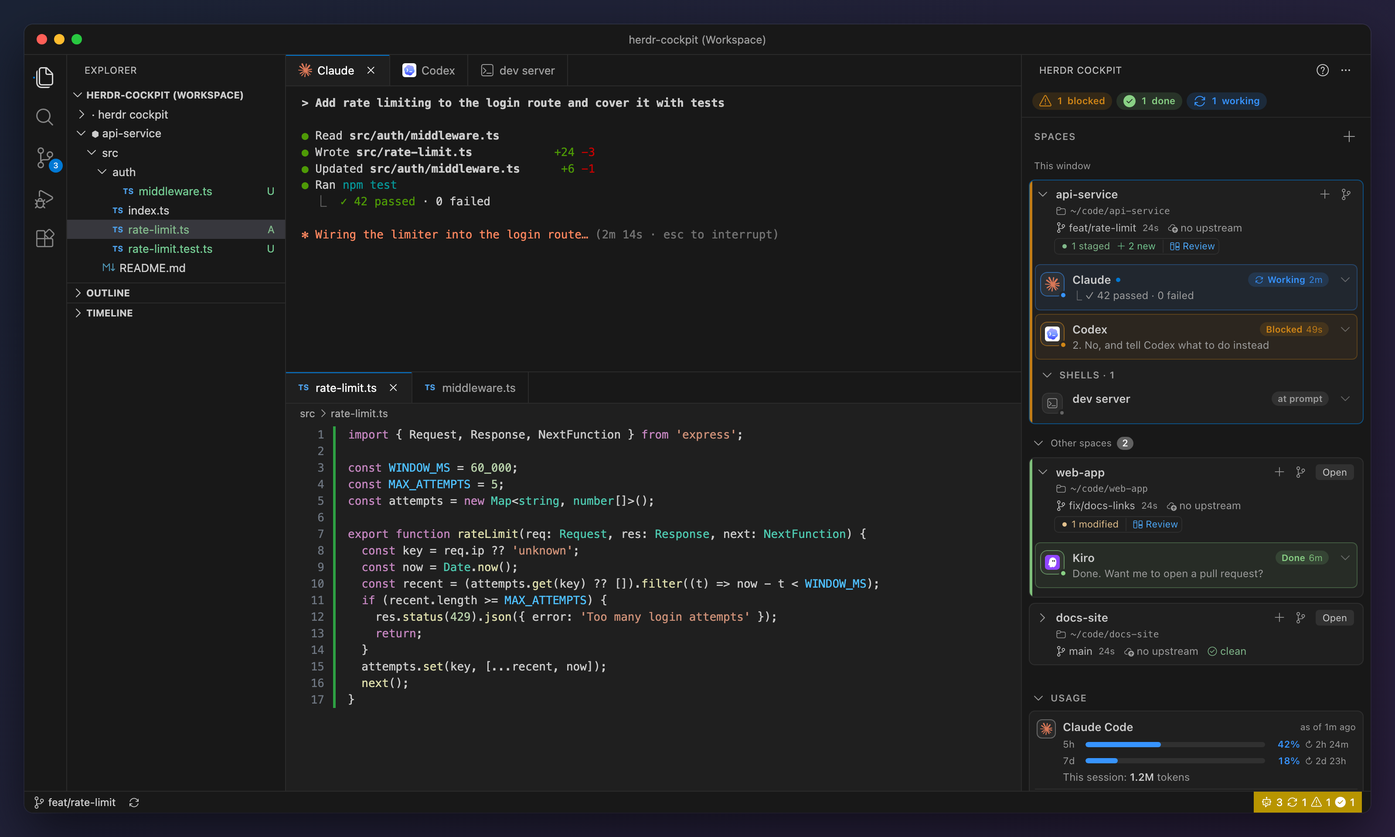
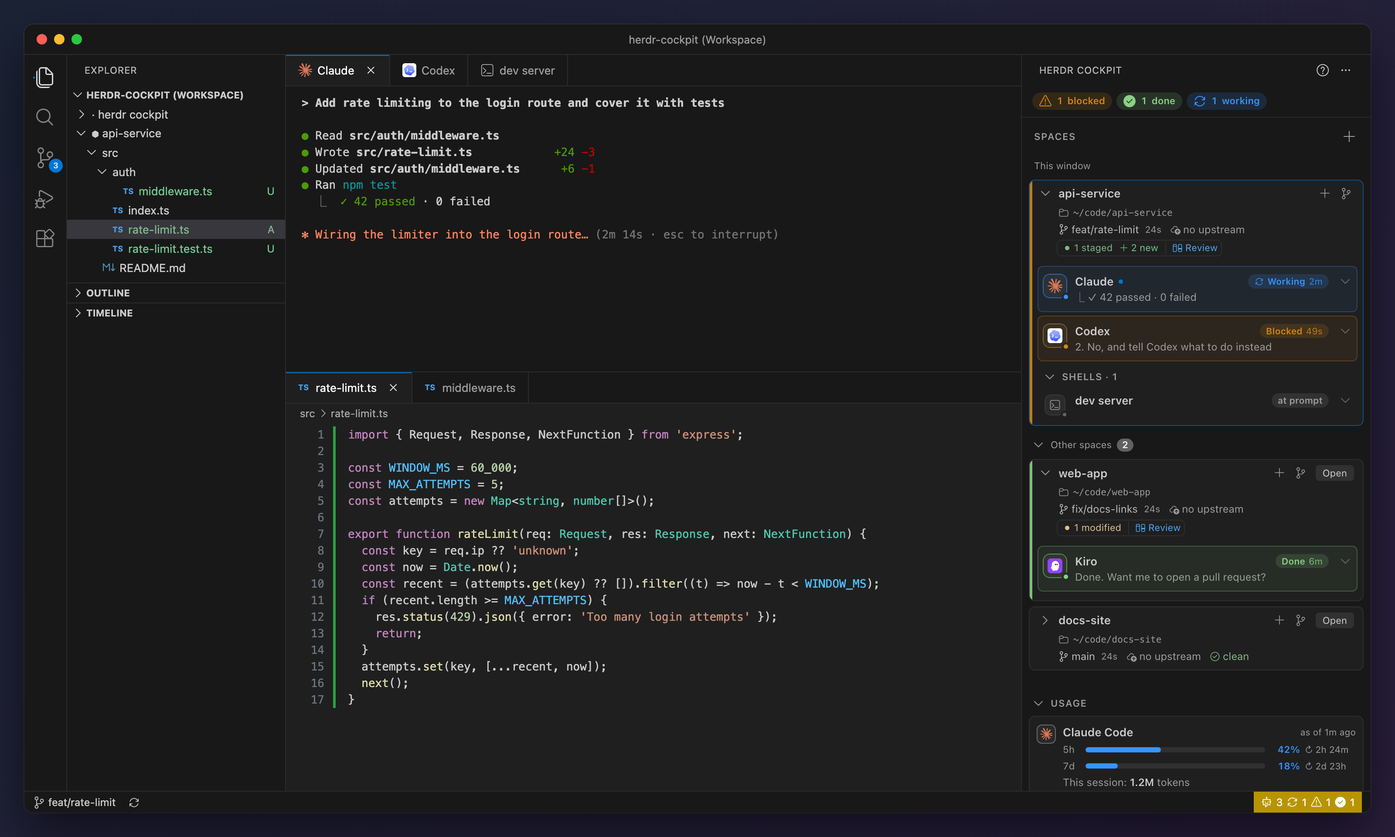
Clearer Today lines in Usage, evenly spaced space cards (0.3.16 to 0.3.18)
The Today line in Usage packed four things into one row with dots between them, which was hard to read. Now
it's one idea per line: "Today: 209.7M tokens, 98% from cache", "$72.67 if billed per token" (it's what the
day would cost without a plan, not a bill) and "+4,536 −141 lines of code".

The space cards' spacing was off in two places:
- The name line had 7px above and 3px below, so its hover highlight hugged the text. Now 6px each way, with
  the highlight following the card's rounded corner.
- The colored status bar on the left of a card with a working, blocked or done agent was drawn over the
  content's left padding, leaving 3px between the bar and everything else (6px on the right). Every card now
  keeps a 3px gutter for the bar, so content sits 6px from it and all cards still line up.

So the cards look even on both sides, and the usage numbers read at a glance.

diff --git a/src/viewState.ts b/src/viewState.ts
@@ -109,8 +109,8 @@ export interface UsageView extends ProviderUsage {
   windows: (UsageWindow & { level: UsageLevel })[];
   /** The folded Usage heading's number: the 5-hour window, else the first one, credits or tokens. */
   summary: { text: string; level: UsageLevel };
-  /** The "Today" line, piece by piece: tokens, the share read from cache, cost at API prices, lines changed. */
-  todayParts?: string[];
+  /** The "Today" lines, one idea each: tokens and the share read from cache, the cost per token, lines changed. */
+  todayLines?: string[];
   /** Codex credits beyond the plan's windows ("12.5 credits left", "unlimited credits"). */
   creditsText?: string;
 }
@@ -232,9 +232,9 @@ export function usageView(u: ProviderUsage): UsageView {
     planName = PLAN_NAMES[u.plan] ?? u.plan.charAt(0).toUpperCase() + u.plan.slice(1);
   }
   const view: UsageView = { ...u, windows, summary, planName };
-  const parts = todayParts(u);
-  if (parts.length) {
-    view.todayParts = parts;
+  const lines = todayLines(u);
+  if (lines.length) {
+    view.todayLines = lines;
   }
   if (u.codexCredits?.unlimited) {
     view.creditsText = 'unlimited credits';
@@ -244,37 +244,41 @@ export function usageView(u: ProviderUsage): UsageView {
   return view;
 }
 
-/** Lines changed: exact up to 9,999 (a day's edits), short above. */
+/** Lines changed: exact with a thousands separator up to 99,999 (a day's edits), short above. */
 function lineCount(n: number): string {
-  if (n < 10_000) {
-    return String(n);
+  if (n < 100_000) {
+    return n.toLocaleString('en-US');
   }
   return shortCount(n);
 }
 
-/** The pieces of a provider's "Today" line, in order; empty when it did nothing today. */
-export function todayParts(u: ProviderUsage): string[] {
+/**
+ * A provider's "Today" lines (since midnight), one idea each so they read at a glance; empty when it did
+ * nothing today: "Today: 203.6M tokens, 98% from cache", "$72.67 if billed per token", "+4,536 −141 lines of code".
+ */
+export function todayLines(u: ProviderUsage): string[] {
   const t = u.today;
   if (!t) {
     return [];
   }
-  const parts: string[] = [];
+  const lines: string[] = [];
   const all = t.tokens + t.cacheRead;
   if (all > 0) {
-    parts.push(`${shortCount(all)} tokens`);
+    let tokens = `Today: ${shortCount(all)} tokens`;
     // Most of an agent's input is re-read from the prompt cache, which costs about a tenth.
     const cached = Math.round((t.cacheRead / all) * 100);
     if (cached > 0) {
-      parts.push(`${cached}% from cache`);
+      tokens += `, ${cached}% from cache`;
     }
+    lines.push(tokens);
   }
   if (t.costUSD && t.costUSD >= 0.005) {
-    parts.push(`$${t.costUSD.toFixed(2)} at API prices`);
+    lines.push(`$${t.costUSD.toFixed(2)} if billed per token`);
   }
   if (t.linesAdded || t.linesRemoved) {
-    parts.push(`+${lineCount(t.linesAdded ?? 0)} −${lineCount(t.linesRemoved ?? 0)} lines`);
+    lines.push(`+${lineCount(t.linesAdded ?? 0)} −${lineCount(t.linesRemoved ?? 0)} lines of code`);
   }
-  return parts;
+  return lines;
 }
 
 /**

diff --git a/src/test/viewTest.ts b/src/test/viewTest.ts
@@ -8,7 +8,7 @@ import * as vm from 'vm';
 import { allPanes, attachOrder, countByStatus, findPane, needingAttention, normalize, repoSpace } from '../model';
 import type { Space } from '../model';
 import { ago, left } from '../format';
-import { buildViewState, folderLine, headline, orderByActivity, paneName, setAgentNames, shortPath, spacesLayout, todayParts, usageView } from '../viewState';
+import { buildViewState, folderLine, headline, orderByActivity, paneName, setAgentNames, shortPath, spacesLayout, todayLines, usageView } from '../viewState';
 import type { PaneActivity } from '../activity';
 import type { PaneProcessInfo, SessionSnapshotResult } from '../herdrTypes';
 
@@ -275,11 +275,11 @@ assert.deepStrictEqual(ordered.map((s) => s.id), ['d', 'c', 'b', 'a', 'e', 'f'])
 console.log('✓ space order: working / blocked first, then most recently active, then Herdr order');
 // The Usage section's Today line and Codex credits
 assert.deepStrictEqual(
-  todayParts({ id: 'claude', name: 'Claude Code', windows: [], today: { tokens: 200_000, cacheRead: 1_800_000, costUSD: 12.4, linesAdded: 1200, linesRemoved: 340 } }),
-  ['2.0M tokens', '90% from cache', '$12.40 at API prices', '+1200 −340 lines'],
+  todayLines({ id: 'claude', name: 'Claude Code', windows: [], today: { tokens: 200_000, cacheRead: 1_800_000, costUSD: 12.4, linesAdded: 4536, linesRemoved: 141 } }),
+  ['Today: 2.0M tokens, 90% from cache', '$12.40 if billed per token', '+4,536 −141 lines of code'],
 );
-assert.deepStrictEqual(todayParts({ id: 'codex', name: 'Codex', windows: [], today: { tokens: 1400, cacheRead: 0 } }), ['1k tokens'], 'no cache share, cost or lines: left out');
-assert.deepStrictEqual(todayParts({ id: 'codex', name: 'Codex', windows: [] }), []);
+assert.deepStrictEqual(todayLines({ id: 'codex', name: 'Codex', windows: [], today: { tokens: 1400, cacheRead: 0 } }), ['Today: 1k tokens'], 'no cache share, cost or lines: left out');
+assert.deepStrictEqual(todayLines({ id: 'codex', name: 'Codex', windows: [] }), []);
 assert.strictEqual(usageView({ id: 'codex', name: 'Codex', windows: [], codexCredits: { balance: 12.5, unlimited: false } }).creditsText, '12.5 credits left');
 assert.strictEqual(usageView({ id: 'codex', name: 'Codex', windows: [], codexCredits: { unlimited: true } }).creditsText, 'unlimited credits');
 console.log('✓ usage: the Today line and Codex credits');

diff --git a/media/panel.css b/media/panel.css
@@ -98,6 +98,9 @@ button.stat:hover { background: color-mix(in srgb, var(--c) 26%, transparent); }
 .space {
   position: relative;
   margin: 6px 8px;
+  /* A gutter for the status bar (::before), on every card so they all line up: the bar sits beside the content
+     instead of over its left padding. */
+  padding-left: 3px;
   border-radius: var(--radius);
   background: var(--card);
   border: 1px solid var(--card-border);
@@ -113,11 +116,14 @@ button.stat:hover { background: color-mix(in srgb, var(--c) 26%, transparent); }
 
 .space-head {
   display: flex; align-items: center; gap: 6px;
-  /* 10px on the right: the card's actions end where the rows' chevrons do (body 6px + row 4px). */
-  padding: 7px 10px 3px 6px;
+  /* As much room below the name as above (its hover highlight sits evenly around it); 10px on the right: the
+     card's actions end where the rows' chevrons do (body 6px + row 4px). */
+  padding: 6px 10px 6px 6px;
   cursor: pointer; outline: none;
 }
 .space-head:hover { background: var(--hover); }
+/* The highlight follows the card's rounded top-right corner (the top-left one is the status bar's gutter). */
+.space-head { border-radius: 0 calc(var(--radius) - 1px) 0 0; }
 .space-head:focus-visible { box-shadow: inset 0 0 0 1px var(--vscode-focusBorder); }
 .chev {
   display: inline-grid; place-items: center; width: 18px; height: 18px; border-radius: 4px;

diff --git a/media/help.html b/media/help.html
@@ -292,7 +292,9 @@
         <div class="meter lvl-warn"><span class="ml">5h</span><span class="bar"><span class="fill w72"></span></span><span class="pct">72%</span><span class="reset">↻ 1h 19m</span></div>
         <div class="meter lvl-ok"><span class="ml">7d</span><span class="bar"><span class="fill w18"></span></span><span class="pct">18%</span><span class="reset">↻ 2d 23h</span></div>
         <div class="ustat">This session: <b>1.7M</b> tokens</div>
-        <div class="ustat">Today: 41.2M tokens · 97% from cache · $18.40 at API prices · +812 −96 lines</div></div></div>
+        <div class="ustat">Today: 41.2M tokens, 97% from cache</div>
+        <div class="ustat">$18.40 if billed per token</div>
+        <div class="ustat">+812 −96 lines of code</div></div></div>
       <div class="usage-row"><div class="avatar logo small" data-logo="codex"></div><div class="main">
         <div class="line1"><span class="name">Codex</span><span class="umeta">Business · live</span></div>
         <div class="meter lvl-high"><span class="ml">5h</span><span class="bar"><span class="fill w91"></span></span><span class="pct">91%</span><span class="reset">↻ 24m</span></div></div></div>

diff --git a/webview/sidebar/Usage.tsx b/webview/sidebar/Usage.tsx
@@ -92,15 +92,19 @@ function UsageRow({ u }: { u: UsageView }) {
     );
   }
   let today: ReactNode = null;
-  if (u.todayParts) {
+  if (u.todayLines) {
     let tip = `What ${u.name} did today on this machine, since midnight: tokens (input, output, cache writes and cache reads), and the share of input read from the prompt cache.`;
     if (u.id === 'claude') {
-      tip += ' Cost is Claude Code\'s own tally at API prices (what it would cost without a plan), and lines are the ones it added and removed.';
+      tip += " The cost is Claude Code's own tally at API prices: what today's use would cost paid per token, without a plan. On a plan it's a measure of use, not a bill. Lines of code are the ones it added and removed.";
     }
     today = (
-      <div className="ustat" title={tip}>
-        Today: {u.todayParts.join(' · ')}
-      </div>
+      <>
+        {u.todayLines.map((line) => (
+          <div className="ustat" title={tip} key={line}>
+            {line}
+          </div>
+        ))}
+      </>
     );
   }
   let codexCredits: ReactNode = null;

diff --git a/CLAUDE.md b/CLAUDE.md
@@ -37,7 +37,7 @@ points the store README's images at GitHub, so they show on the Marketplace and 
 | `model.ts` | `normalize(result)` turns the `session.snapshot` result into Space → Tab → Pane, typed against `herdrTypes.ts`. Handles agent status, state labels, metadata tokens, terminal title, worktree, rollups and counts. Throws on a response missing the snapshot arrays. Helpers `allPanes()`, `findPane()`, `needingAttention()` (blocked, then done, Herdr order within each) and `countByStatus()`: use them instead of walking `spaces → tabs → panes` by hand. No vscode imports. |
 | `connection.ts` | Herdr not installed / not running / crashed / incompatible / unreachable (`diagnose()`, via `herdr status server --json`), starting the headless server (`startServer()`: `herdr server` spawned detached so it outlives VS Code; refuses if status says one is running, including when a custom `herdr.socketPath` would put a second server on a session that already runs elsewhere; a `…/sessions/<name>/herdr.sock` socket also sets `HERDR_SESSION`; a per-socket lock file `~/.herdr-cockpit/locks/start-<hash>.lock` makes other windows wait instead of starting a second server, stale after the timeout + 5s), reconnect backoff, `resolveBinary`. No vscode imports. |
 | `herdrActions.ts` | Typed create/rename/close wrappers (`workspace.create`, `tab.create`, `worktree.create`/`remove`, `agent.start`/`rename`, `pane.rename`/`close`, `tab.*`, `workspace.*`). Creates default to `focus:false`. `promptAgent()` (`agent.prompt`: types the text into the agent and submits it), `agentKinds()` (`server.agent_manifests`: every agent kind Herdr detects, e.g. 22 on 0.9.5). `AGENT_KINDS` (display names), `agentName()` (unique valid names), `AGENT_NAME`. No vscode imports. `WorktreeCreate` narrows worktree.create to (`workspace_id` | `cwd`) & (`branch` | `path`), as Herdr checks. |
-| `usage.ts` | "Usage" section data (no credentials read): Codex **live** via `codex app-server` stdio JSON-RPC (`initialize` → `account/rateLimits/read`; same data as Codex `/usage`; ~1s, so cached 5 min; `codex app-server proxy` to the daemon did NOT answer this handshake), falling back to `rate_limits` in `~/.codex/sessions/**/rollout-*.jsonl` (stale: Codex ≥0.160 stopped writing them, and they only update on model requests); Claude Code plan % from our opt-in status-line capture `~/.herdr-cockpit/claude-usage.json` (matches `/usage`; per-model weekly limits like Fable aren't exposed), tokens from `~/.claude/projects/**/*.jsonl` over the real session window (5h reset − 5h), else an estimated block; Kiro credits from `~/.kiro/sessions/cli/*.json` `metering_usage` (allowance: user setting `herdr.kiroMonthlyCredits`; Kiro exposes it to no other tool: `kiro-cli acp` v2 has no usage method, v3 boots its whole agent engine, creates sessions and didn't answer; the TUI's `/usage` uses AWS `GetUsageLimits` with Kiro's own login). Only agent kinds running in Herdr are read and shown (`only` / viewState filter); no Codex process starts without a Codex pane. Polled every 60s while the sidebar is visible. No vscode imports. **Kiro session files contain other data (tool args, even tokens): only read the metering fields.** Claude transcripts are cached per file (size+mtime; appended lines read from the last offset). **Today** (0.3.15, `ProviderUsage.today`, since local midnight): Claude's tokens and cache reads from message `usage`, plus cost and lines from its `cost-state` records (a session's running `totalCostUSD` / `totalLinesAdded` / `totalLinesRemoved`; they carry no timestamp, so the last timestamped line before them dates them), counted as what each running total grew by today (`todayDelta()`); Codex's from `token_count` `info.total_token_usage` in its session logs (cached per file the same way), also for live Codex. Codex `rate_limits.credits` (`has_credits`/`unlimited`/`balance`, camelCase from app-server) → `codexCredits`. `todayParts()` in viewState.ts words the line ("203.6M tokens · 98% from cache · $72.67 at API prices · +4536 −141 lines"). The status-line script saves only rate_limits (jq, else the 5h/7d numbers via sed) with umask 077; `shQuote()` quotes paths put into sh scripts and settings (`test/usageScriptTest.ts`, under sh and dash). |
+| `usage.ts` | "Usage" section data (no credentials read): Codex **live** via `codex app-server` stdio JSON-RPC (`initialize` → `account/rateLimits/read`; same data as Codex `/usage`; ~1s, so cached 5 min; `codex app-server proxy` to the daemon did NOT answer this handshake), falling back to `rate_limits` in `~/.codex/sessions/**/rollout-*.jsonl` (stale: Codex ≥0.160 stopped writing them, and they only update on model requests); Claude Code plan % from our opt-in status-line capture `~/.herdr-cockpit/claude-usage.json` (matches `/usage`; per-model weekly limits like Fable aren't exposed), tokens from `~/.claude/projects/**/*.jsonl` over the real session window (5h reset − 5h), else an estimated block; Kiro credits from `~/.kiro/sessions/cli/*.json` `metering_usage` (allowance: user setting `herdr.kiroMonthlyCredits`; Kiro exposes it to no other tool: `kiro-cli acp` v2 has no usage method, v3 boots its whole agent engine, creates sessions and didn't answer; the TUI's `/usage` uses AWS `GetUsageLimits` with Kiro's own login). Only agent kinds running in Herdr are read and shown (`only` / viewState filter); no Codex process starts without a Codex pane. Polled every 60s while the sidebar is visible. No vscode imports. **Kiro session files contain other data (tool args, even tokens): only read the metering fields.** Claude transcripts are cached per file (size+mtime; appended lines read from the last offset). **Today** (0.3.15, `ProviderUsage.today`, since local midnight): Claude's tokens and cache reads from message `usage`, plus cost and lines from its `cost-state` records (a session's running `totalCostUSD` / `totalLinesAdded` / `totalLinesRemoved`; they carry no timestamp, so the last timestamped line before them dates them), counted as what each running total grew by today (`todayDelta()`); Codex's from `token_count` `info.total_token_usage` in its session logs (cached per file the same way), also for live Codex. Codex `rate_limits.credits` (`has_credits`/`unlimited`/`balance`, camelCase from app-server) → `codexCredits`. `todayLines()` in viewState.ts words it, one idea per line (the user found one dotted line hard to read): "Today: 203.6M tokens, 98% from cache" / "$72.67 if billed per token" / "+4,536 −141 lines of code". The status-line script saves only rate_limits (jq, else the 5h/7d numbers via sed) with umask 077; `shQuote()` quotes paths put into sh scripts and settings (`test/usageScriptTest.ts`, under sh and dash). |
 | `usageSetup.ts` | Opt-in "Show plan limits…": Claude Code gives `rate_limits` only to a status-line command, so this installs `~/.herdr-cockpit/claude-statusline.sh` in `~/.claude/settings.json` after a modal (backup `settings.json.herdr-backup`); never replaces an existing statusLine. Reads the file again after the modal, so changes Claude Code saved meanwhile aren't lost; a file that isn't a JSON object is left alone. |
 | `manage.ts` | The VS Code flows around those: pick Shell/agent (agents: `AGENT_KINDS` plus any other kind Herdr's manifests list, asked once per connection), New tab, New space (folder or git worktree), Rename…, Close in Herdr… (with confirmations; worktree delete with force fallback). **New Worktree…** (`newWorktree`, 0.3.9; the user works one ticket per worktree): one input box, the branch name (`branchFromInput()` in branchName.ts turns a ticket link into its key; `branchProblem()` validates), label = branch, `base` = `mainBranch()` (gitInfo.ts: origin/HEAD's local branch, else main/master; **local**, because a branch started from `origin/x` tracks it), then `herdr.newWorktreeStartsWith` (shell / ask / an agent kind). Verified on a throwaway session (herdr 0.9.5): `worktree.create {workspace_id, branch, base}` starts the branch at `base` whatever the repo has checked out, sets no upstream, and puts the checkout in `~/.herdr/worktrees/<repo>/<branch lowercased>`. From a card: that repo (`repoSpace()`); from the palette: the repo open in this window, the only one, or a pick. |
 | `profiles.ts` | Terminal profiles (`contributes.terminal.profiles`): "Herdr Shell" + per-agent. The provider creates the Herdr tab, returns a `HerdrPty` tab for it (see terminals.ts), and adopts the terminal on `onDidOpenTerminal`; falls back to a local shell when Herdr isn't reachable. |
@@ -82,7 +82,7 @@ points the store README's images at GitHub, so they show on the Marketplace and 
 - **Switching a space:** mount its folder, reveal it in Explorer, call `workspace.focus` in Herdr, and close the attach terminals of other spaces (`closeTerminalsOnSwitch`). Then attach the panes per `herdr.autoAttach` (`all` / `agents` / `none`; replaced `autoAttachOnSwitch` + `autoAttachShells` in 0.3.0, which `autoAttachMode()` still reads until it's set): agents most urgent first (blocked > done > working > idle), then shells in tab order. VS Code places each new terminal tab after the previous one (editor area and panel alike), so they're opened in that order, then the first is focused.
 - **Events are invalidation signals.** Always re-read with `session.snapshot`; never apply event payloads incrementally. This is what Herdr's docs recommend: on `events_lost`, resubscribe and re-snapshot.
 - **UI layout:** the user moved the Herdr view to the **secondary (right) sidebar** by hand and keeps Explorer on the left. Extensions can't target the secondary sidebar without the proposed API `contribSecondarySidebar` (`viewsContainers.secondarySidebar`), so the container stays in the activity bar.
-- **Sidebar design (v0.0.4):** space cards (collapsible, status accent bar, branch/changes line), agents and shells as compact two-line rows (name + status pill, then one line: task/summary or `$ command`) with a chevron that reveals details (summary or screen, output box, chips, folder; persisted per pane in webview state); no "attached" chips, a "Needs you" section for blocked/done agents with a screen preview (only this window's since 0.3.0: agents of a space `here`, or with a tab attached here; `herdr.showNeedsYou` false hides it and frames those rows in their space instead (`PaneView.needs`); a working agent is always framed too, in blue (0.3.13, the user asked for it like done ones in green; `PaneView.framed`, class `.row.framed`), and a collapsible "Shells" group per space. Pane names come from `paneName()` (viewState.ts) and are used for both the sidebar row and the VS Code terminal tab (VS Code can't rename a tab later, so names use only snapshot fields): agents = display name or kind ("Claude"); shells = pane label → tab label → `Tab N`. Agent terminal tabs use the logo from `media/agent-logos` as their icon. Nothing in `panel.css` assumes the side bar's background (the view can be dragged to the panel, and a webview can't tell where it is): the sticky header is see-through and blurred, and an avatar's status dot sits in a notch cut out of its tile (`::before` with a radial mask) instead of a ring painted in the background color. Space order (`orderByActivity`, setting `herdr.spaceOrder`): busy (working/blocked) first, then last active (an agent's status change after the first snapshot, or the space becoming focused), kept by space **name** in globalState `herdr.spaceActivity`, ties in Herdr's order. The bottom of the webview shows `Herdr Cockpit v<ext> · Herdr <version>` (`ViewState.versions`; not the view's `description`: in the secondary sidebar a single view shows as a tab and the description is dropped, user report on 0.2.5). Space header = chevron + name + agent dots, the card's actions as small always-visible icons (0.3.10, the user's choice: New tab `+` on every card, New worktree on repo cards; `.card-btn`, no taller than the name so the header keeps its height; `spaceRepo` in the menu context for New worktree's right-click entry), plus a visible **Open** button on spaces not `here` (0.3.7: opening a whole space used to be only in the right-click menu); under it the folder line (0.3.9: `~/code/app`, or `app worktree · ~/…/app/out-1`); the git line shows branch · last-commit age · ↑↓/synced/no upstream · conflicts/staged/modified/new or clean · Review. Header: title bar = "Herdr Cockpit" + `?` (help) + `⋯` (Follow Herdr Focus ✓, Open Herdr TUI, Set Up Cockpit Window, Refresh, Settings); the debugging commands (Show Raw Herdr Record, Show Raw Session Snapshot) are in the Command Palette only (0.3.0); webview top = status counters only (the shells toggle moved to `⋯` → Show Shell Panes ✓ in 0.3.7); section order: counters, Needs you (when on), Spaces, Usage (bottom); New space only via the `+` beside "Spaces"; New tab is the `+` on the card's name line (it was a dashed row at the bottom of an open card until 0.3.10). Each control lives in exactly one place.
+- **Sidebar design (v0.0.4):** space cards (collapsible, status accent bar, branch/changes line), agents and shells as compact two-line rows (name + status pill, then one line: task/summary or `$ command`) with a chevron that reveals details (summary or screen, output box, chips, folder; persisted per pane in webview state); no "attached" chips, a "Needs you" section for blocked/done agents with a screen preview (only this window's since 0.3.0: agents of a space `here`, or with a tab attached here; `herdr.showNeedsYou` false hides it and frames those rows in their space instead (`PaneView.needs`); a working agent is always framed too, in blue (0.3.13, the user asked for it like done ones in green; `PaneView.framed`, class `.row.framed`), and a collapsible "Shells" group per space. Pane names come from `paneName()` (viewState.ts) and are used for both the sidebar row and the VS Code terminal tab (VS Code can't rename a tab later, so names use only snapshot fields): agents = display name or kind ("Claude"); shells = pane label → tab label → `Tab N`. Agent terminal tabs use the logo from `media/agent-logos` as their icon. Nothing in `panel.css` assumes the side bar's background (the view can be dragged to the panel, and a webview can't tell where it is): the sticky header is see-through and blurred, and an avatar's status dot sits in a notch cut out of its tile (`::before` with a radial mask) instead of a ring painted in the background color. Space order (`orderByActivity`, setting `herdr.spaceOrder`): busy (working/blocked) first, then last active (an agent's status change after the first snapshot, or the space becoming focused), kept by space **name** in globalState `herdr.spaceActivity`, ties in Herdr's order. The bottom of the webview shows `Herdr Cockpit v<ext> · Herdr <version>` (`ViewState.versions`; not the view's `description`: in the secondary sidebar a single view shows as a tab and the description is dropped, user report on 0.2.5). Cards keep a 3px left gutter for the status bar (`.space::before`) on every card, so the bar never covers content and all cards line up; the name line has even padding (6px above and below; 10px on the right so the card's actions end where the rows' chevrons do). Space header = chevron + name + agent dots, the card's actions as small always-visible icons (0.3.10, the user's choice: New tab `+` on every card, New worktree on repo cards; `.card-btn`, no taller than the name so the header keeps its height; `spaceRepo` in the menu context for New worktree's right-click entry), plus a visible **Open** button on spaces not `here` (0.3.7: opening a whole space used to be only in the right-click menu); under it the folder line (0.3.9: `~/code/app`, or `app worktree · ~/…/app/out-1`); the git line shows branch · last-commit age · ↑↓/synced/no upstream · conflicts/staged/modified/new or clean · Review. Header: title bar = "Herdr Cockpit" + `?` (help) + `⋯` (Follow Herdr Focus ✓, Open Herdr TUI, Set Up Cockpit Window, Refresh, Settings); the debugging commands (Show Raw Herdr Record, Show Raw Session Snapshot) are in the Command Palette only (0.3.0); webview top = status counters only (the shells toggle moved to `⋯` → Show Shell Panes ✓ in 0.3.7); section order: counters, Needs you (when on), Spaces, Usage (bottom); New space only via the `+` beside "Spaces"; New tab is the `+` on the card's name line (it was a dashed row at the bottom of an open card until 0.3.10). Each control lives in exactly one place.
 - **Out of scope:** the user doesn't want AI chat (Copilot, Claude Code or Codex panels) in the hub window. Their agents run in Herdr.
 
 ## Herdr API facts used (from herdr.dev/docs/socket-api)

diff --git a/CHANGELOG.md b/CHANGELOG.md
@@ -7,6 +7,7 @@ Versions up to 0.1.2 were published as **Herdr Hub** (`sriharirao.herdr-hub`).
 
 - **New Worktree…, for one ticket per checkout.** A repository's space card has a New worktree icon (and a right-click entry, and **Herdr Cockpit: New Worktree…** in the Command Palette). It asks one thing, the branch name: a ticket key, the ticket's link (its key is used) or any name. The branch starts from the repository's main branch, not from whatever the space has checked out, and the new space is named after it. Setting `herdr.newWorktreeStartsWith`: a shell (default), an agent, or ask.
 - **Usage shows today's work** under each agent: tokens since midnight and the share read from the prompt cache, and for Claude Code its cost at API prices and the lines it added and removed. Codex also shows its credits balance when the account has credits.
+- Space cards are evenly spaced: the colored status bar on a card's left edge no longer covers its content, and the name line has as much room below as above.
 - **Working agents stand out**: framed in blue in their space, like done agents in green and blocked ones in orange. Hovering rows and headers also highlights them more clearly.
 - **Each space card shows its folder** under its name (the full path on hover), and a worktree space says which repository it's a checkout of.
 - **A redesigned sidebar, rebuilt in React.** Spaces come first, under the counters (and Needs you, when it's on), and Usage moved to the bottom. A space that isn't open in this window has an **Open** button; before, opening a whole space was only in the right-click menu. **New tab** and **New worktree** are small icons on each card's name line (they work with the card folded too), the shells toggle moved to the `⋯` menu (**Show Shell Panes**), and expanded rows no longer repeat the agent's name as a tab chip or the space's folder. The sidebar now updates only what changed, so selected text in an output box, hover and focus survive the updates every few seconds. It stays clickable while reconnecting, the connecting screen has Help and Copy diagnostics links, rows and headings work with screen readers, and a new blocked or done agent is announced to them.
